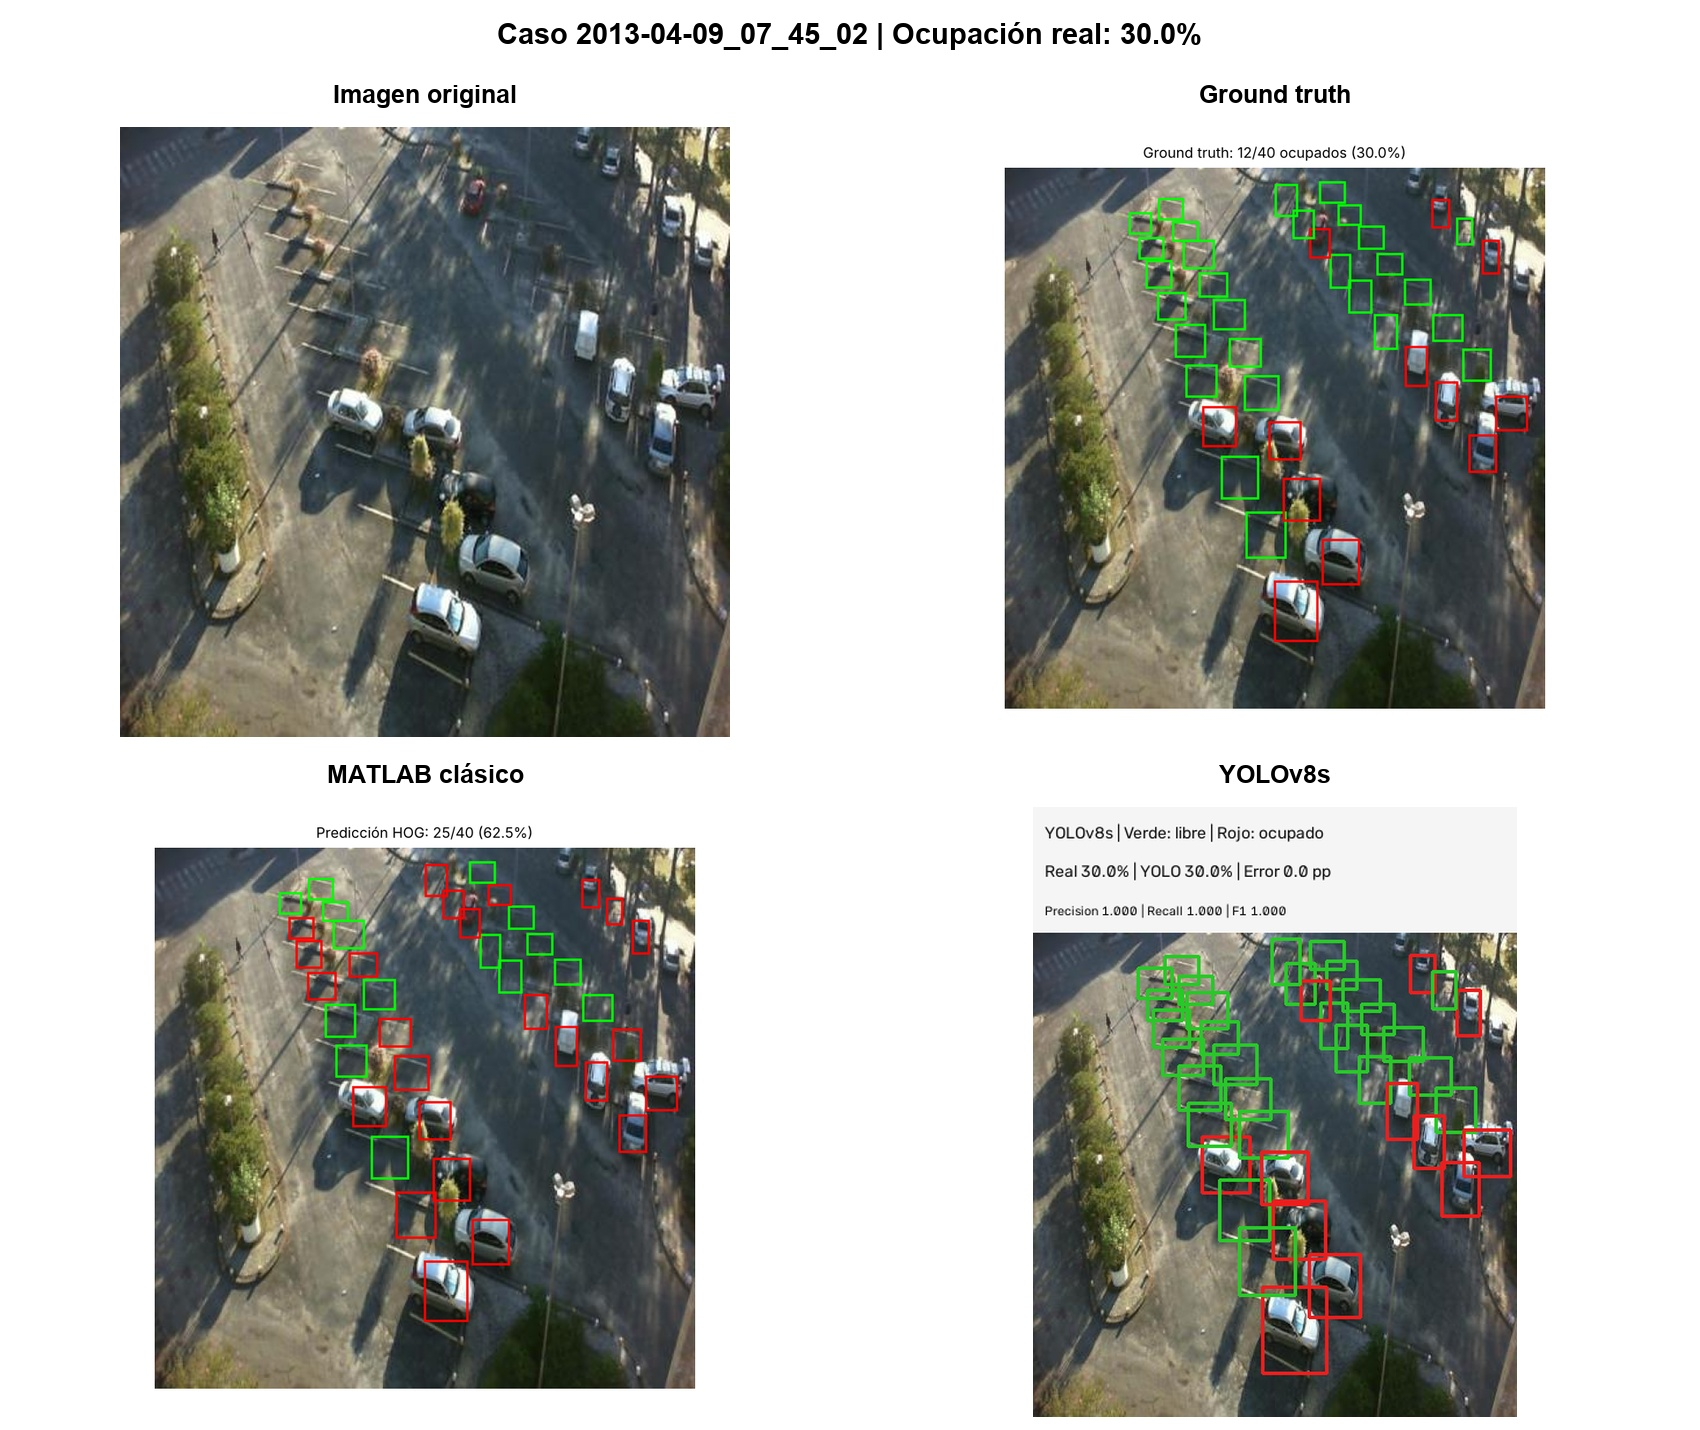
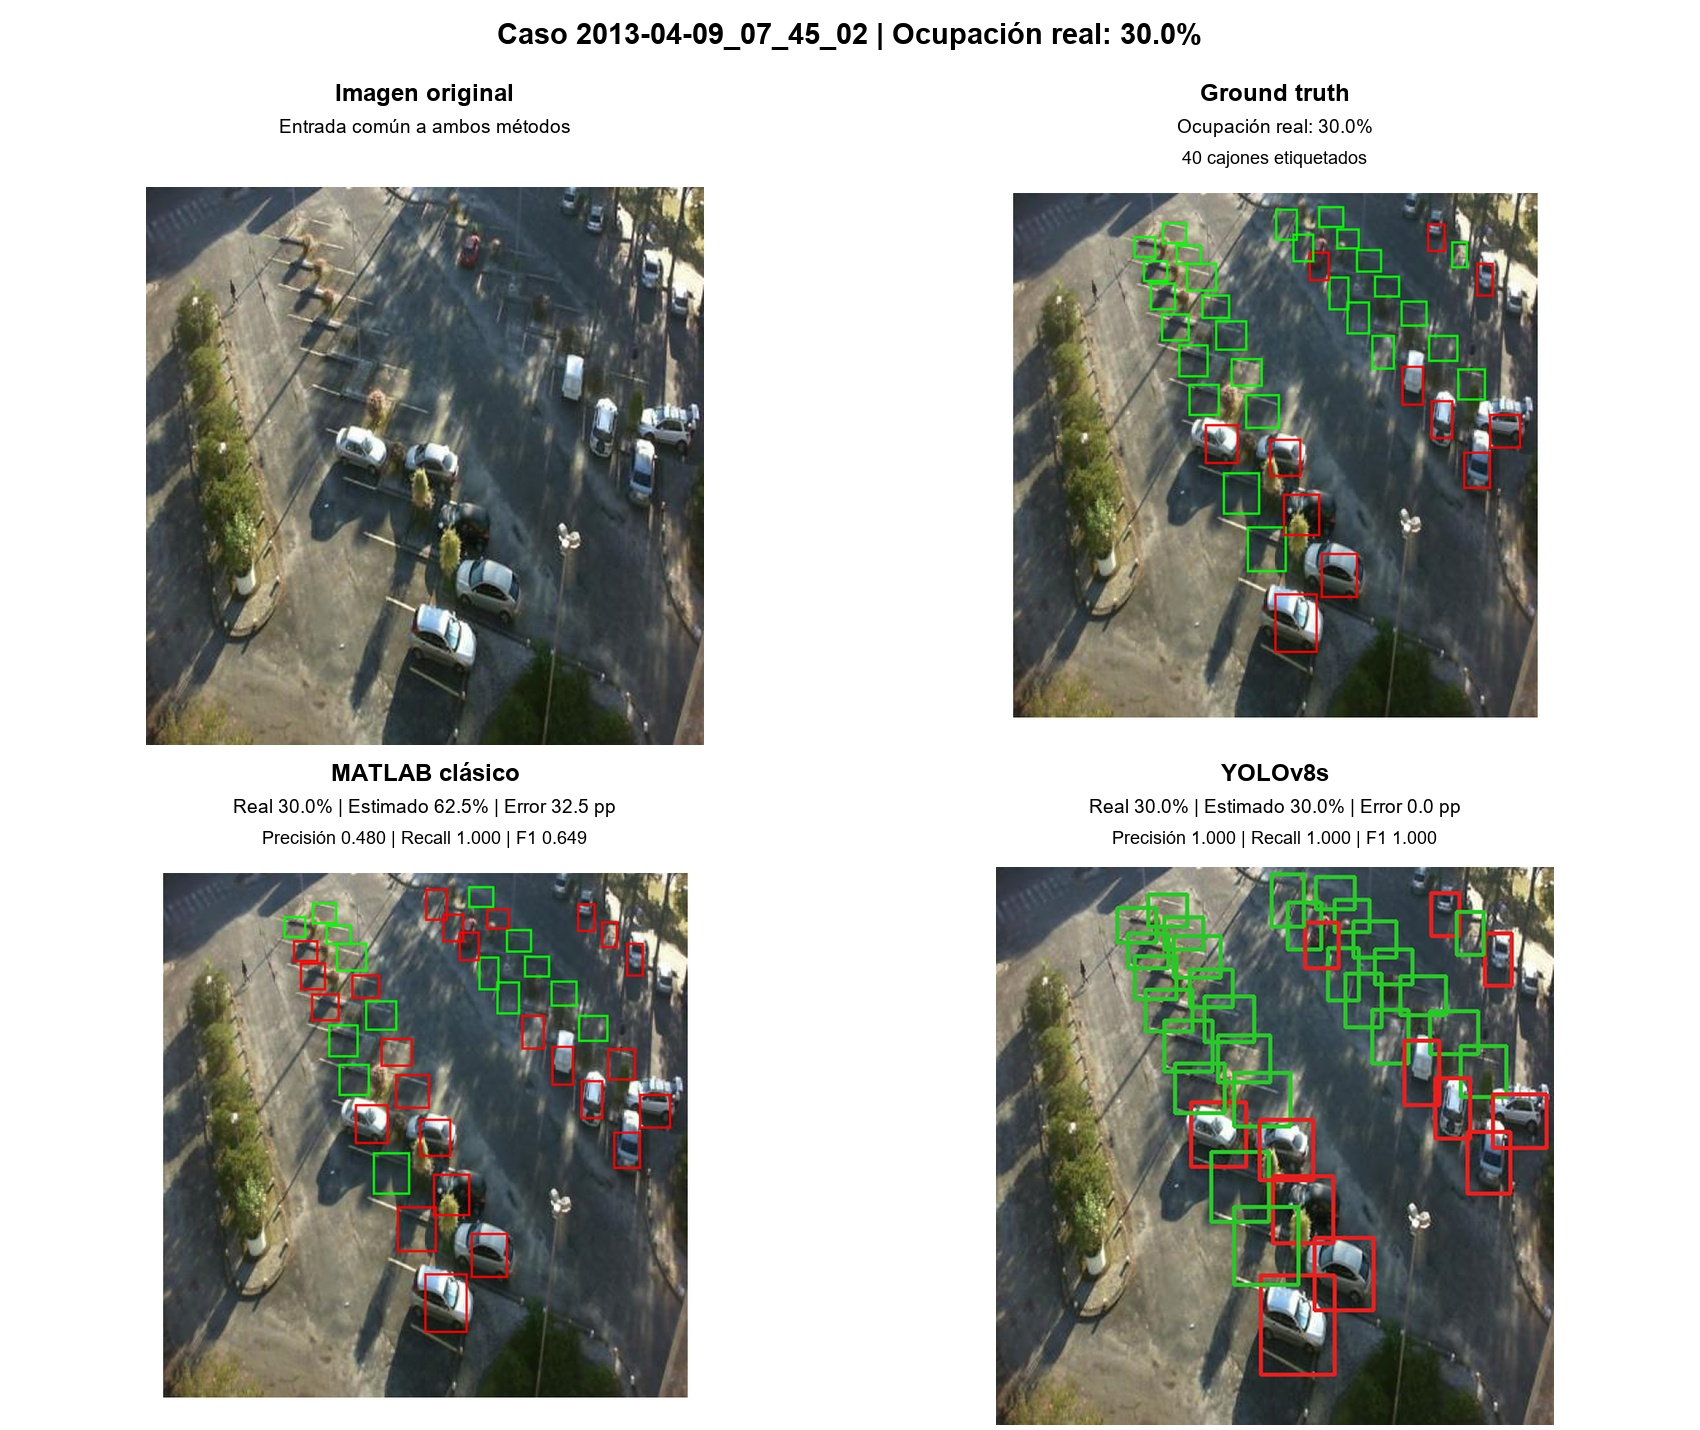
Estandariza comparativas MATLAB y YOLO

diff --git a/PC5_OCUPACION_ESTACIONAMIENTOS/02_CODIGO/02_PYTHON_YOLO/generar_comparativas.py b/PC5_OCUPACION_ESTACIONAMIENTOS/02_CODIGO/02_PYTHON_YOLO/generar_comparativas.py
@@ -131,20 +131,32 @@ def dibujar_yolo(imagen: np.ndarray, cajas: np.ndarray, clases: np.ndarray,
     return lienzo
 
 
-def tarjeta(ruta: Path, titulo: str, ancho: int = 850, alto: int = 680) -> Image.Image:
+def tarjeta(ruta: Path, titulo: str, detalle: str = "", metricas: str = "",
+            quitar_encabezado: bool = False, ancho: int = 850,
+            alto: int = 680) -> Image.Image:
     panel = Image.open(ruta).convert("RGB")
-    panel = ImageOps.contain(panel, (ancho - 30, alto - 70), Image.Resampling.LANCZOS)
+    if quitar_encabezado and panel.height > panel.width:
+        # Las salidas MATLAB y YOLO incluyen una franja superior propia.
+        # Se retira para reemplazarla por un encabezado común y comparable.
+        panel = panel.crop((0, panel.height - panel.width, panel.width, panel.height))
+    alto_texto = 112
+    panel = ImageOps.contain(panel, (ancho - 30, alto - alto_texto - 10), Image.Resampling.LANCZOS)
     fondo = Image.new("RGB", (ancho, alto), "white")
     x = (ancho - panel.width) // 2
-    y = 55 + (alto - 65 - panel.height) // 2
+    y = alto_texto + (alto - alto_texto - panel.height) // 2
     fondo.paste(panel, (x, y))
     d = ImageDraw.Draw(fondo)
-    d.text((ancho // 2, 24), titulo, font=fuente(25, True), fill="black", anchor="mm")
+    d.text((ancho // 2, 23), titulo, font=fuente(24, True), fill="black", anchor="mm")
+    if detalle:
+        d.text((ancho // 2, 56), detalle, font=fuente(19), fill="black", anchor="mm")
+    if metricas:
+        d.text((ancho // 2, 87), metricas, font=fuente(18), fill="black", anchor="mm")
     return fondo
 
 
-def comparativa(rutas: list[Path], titulos: list[str], encabezado: str, salida: Path) -> None:
-    cards = [tarjeta(r, t) for r, t in zip(rutas, titulos)]
+def comparativa(paneles: list[tuple[Path, str, str, str, bool]],
+                encabezado: str, salida: Path) -> None:
+    cards = [tarjeta(*panel) for panel in paneles]
     margen_superior = 70
     lienzo = Image.new("RGB", (1700, 2 * 680 + margen_superior), "white")
     for i, card in enumerate(cards):
@@ -231,9 +243,17 @@ def main() -> None:
 
         carpeta_caso = casos_matlab / caso
         comparativa(
-            [ruta_imagen, carpeta_caso / "08_ground_truth.png",
-             carpeta_caso / "09_prediccion.png", salida_individual],
-            ["Imagen original", "Ground truth", "MATLAB clásico", "YOLOv8s"],
+            [
+                (ruta_imagen, "Imagen original", "Entrada común a ambos métodos", "", False),
+                (carpeta_caso / "08_ground_truth.png", "Ground truth",
+                 f"Ocupación real: {real:.1f}%", "40 cajones etiquetados", True),
+                (carpeta_caso / "09_prediccion.png", "MATLAB clásico",
+                 f"Real {real:.1f}% | Estimado {float(m['pp']):.1f}% | Error {abs(float(m['pr'])-float(m['pp'])):.1f} pp",
+                 f"Precisión {float(m['P']):.3f} | Recall {float(m['R']):.3f} | F1 {float(m['F1']):.3f}", True),
+                (salida_individual, "YOLOv8s",
+                 f"Real {real:.1f}% | Estimado {estimado:.1f}% | Error {abs(real-estimado):.1f} pp",
+                 f"Precisión {precision:.3f} | Recall {recall:.3f} | F1 {f1:.3f}", True),
+            ],
             f"Caso {caso} | Ocupación real: {real:.1f}%",
             salida_comp / f"matlab_vs_yolo_{caso}.jpg",
         )
